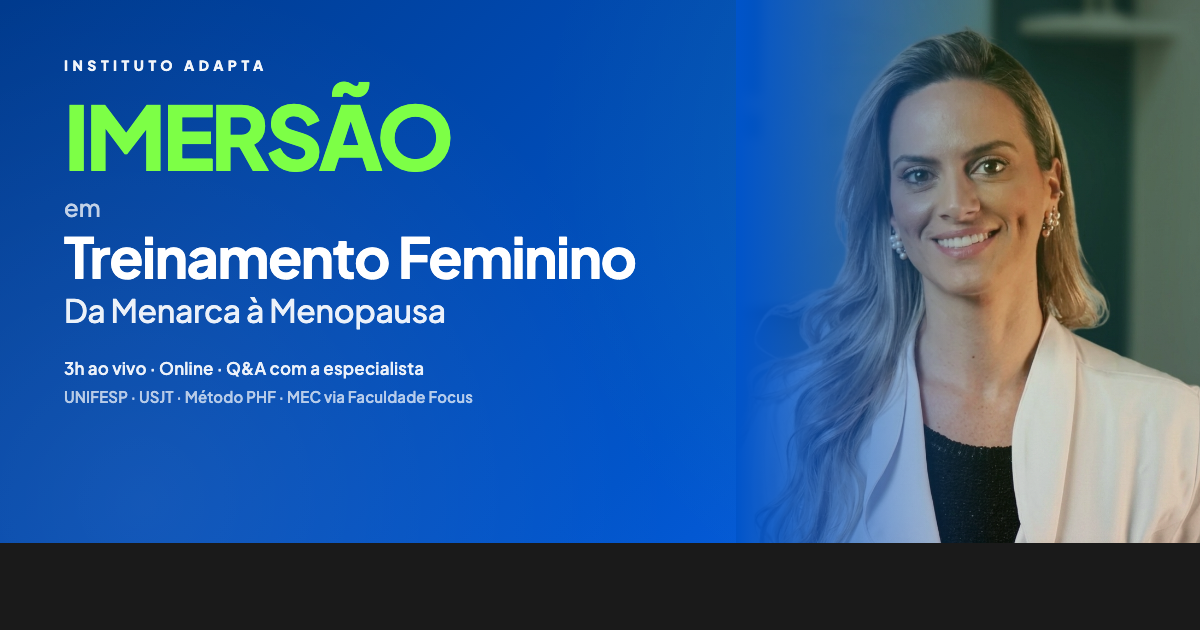
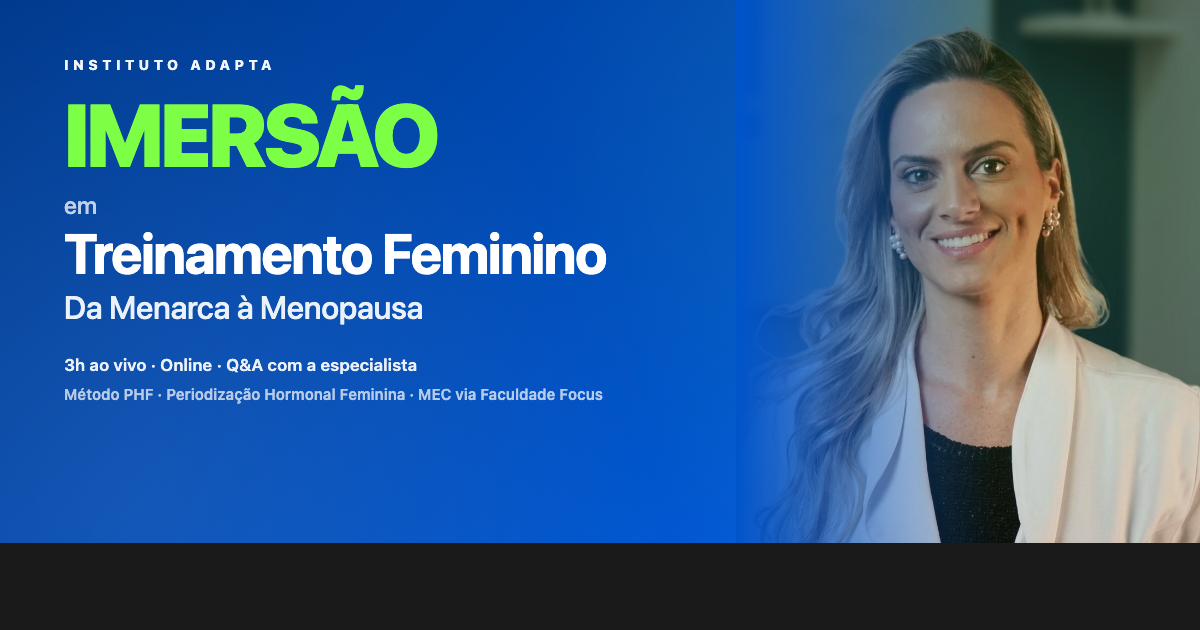
Remove menção de UNIFESP/USJT de todas as superfícies de marketing
Cliente foi enfático: nunca mencionar instituições de ensino que
não foram explicitamente direcionadas. Apenas Adapta + Faculdade
Focus (MEC) podem ser invocadas como autoridade.

Aplicado em:
- v1: og:title vira '(Especialista responde.)' no lugar de
  '(Resposta da UNIFESP.)'. Title, description, twitter:title limpos.
- v2: title, description, og:description, twitter:description, hero
  sub-headline limpos.
- posgraduacao: meta description, hero subhead, chip de coordenação,
  diferencial bullet, decorative tagline e FAQ limpos.
- og/v1, og/v2: meta-lines das capas limpas.
- PNGs das capas regenerados via Chrome headless.

Mantém UNIFESP/USJT/UMESP/UNICSUL/UNG nas listas formais de
credenciais acadêmicas (biográficas, não promocionais).

diff --git a/imersaotreinamentofeminino/posgraduacao.html b/imersaotreinamentofeminino/posgraduacao.html
@@ -4,7 +4,7 @@
 <meta charset="utf-8"/>
 <meta content="width=device-width, initial-scale=1.0" name="viewport"/>
 <title>Pós-Graduação Método PHF — 1 aluna = 4 alunas | Dra. Bianca Ramallo · Instituto Adapta</title>
-<meta name="description" content="A única pós-graduação do Brasil dedicada ao Método PHF — Periodização Hormonal Feminina criado pela Dra. Bianca Ramallo (UNIFESP). 360h, 100% online, certificação MEC via Faculdade Focus, acesso vitalício."/>
+<meta name="description" content="A única pós-graduação do Brasil dedicada ao Método PHF — Periodização Hormonal Feminina criado pela Dra. Bianca Ramallo. 360h, 100% online, certificação MEC via Faculdade Focus, acesso vitalício."/>
 
 <!-- Open Graph (WhatsApp, Facebook, LinkedIn) -->
 <meta property="og:type" content="website"/>
@@ -158,7 +158,7 @@
       </h1>
 
       <p class="text-lg md:text-xl text-muted leading-relaxed max-w-3xl mx-auto">
-        A única pós-graduação do Brasil dedicada ao <strong class="text-ink">Método PHF — Periodização Hormonal Feminina</strong>, criado e coordenado pela Dra. Bianca Ramallo (UNIFESP). Diploma MEC, 100% online, acesso vitalício.
+        A única pós-graduação do Brasil dedicada ao <strong class="text-ink">Método PHF — Periodização Hormonal Feminina</strong>, criado e coordenado pela Dra. Bianca Ramallo. Diploma MEC, 100% online, acesso vitalício.
       </p>
 
       <!-- Meta chips -->
@@ -205,7 +205,7 @@
 
       <div class="flex items-center gap-3 pt-6 flex-wrap justify-center">
         <p class="text-[10px] font-bold tracking-widest uppercase text-muted">Coordenação</p>
-        <p class="text-sm font-semibold text-muted"><span class="text-primary font-bold">Profª Dra. Bianca Ramallo</span> <span class="text-muted">• UNIFESP · Pós-Doc USJT</span></p>
+        <p class="text-sm font-semibold text-muted"><span class="text-primary font-bold">Profª Dra. Bianca Ramallo</span> <span class="text-muted">• Saúde da Mulher · Exercício Físico</span></p>
       </div>
     </div>
   </div>
@@ -353,7 +353,7 @@
         </div>
         <ul class="space-y-3 text-sm">
           <li class="flex gap-3"><span class="material-symbols-outlined text-accent text-xl shrink-0 mt-0.5" style="font-variation-settings: 'FILL' 1;">check_circle</span><span>O <strong>Método PHF (Periodização Hormonal Feminina)</strong> — criado pela Bianca, ensinado em primeira mão aqui</span></li>
-          <li class="flex gap-3"><span class="material-symbols-outlined text-accent text-xl shrink-0 mt-0.5" style="font-variation-settings: 'FILL' 1;">check_circle</span><span>Coordenação <strong>Profª Dra. Bianca Ramallo</strong> — UNIFESP, Pós-Doc USJT, três formações completas (Medicina, EF, Nutrição)</span></li>
+          <li class="flex gap-3"><span class="material-symbols-outlined text-accent text-xl shrink-0 mt-0.5" style="font-variation-settings: 'FILL' 1;">check_circle</span><span>Coordenação <strong>Profª Dra. Bianca Ramallo</strong> — Doutora, Pós-Doc, três formações completas (Medicina, EF, Nutrição)</span></li>
           <li class="flex gap-3"><span class="material-symbols-outlined text-accent text-xl shrink-0 mt-0.5" style="font-variation-settings: 'FILL' 1;">check_circle</span><span><strong>Acesso vitalício</strong> ao conteúdo, com atualizações contínuas</span></li>
           <li class="flex gap-3"><span class="material-symbols-outlined text-accent text-xl shrink-0 mt-0.5" style="font-variation-settings: 'FILL' 1;">check_circle</span><span>Reconhecimento <strong>MEC</strong> via Faculdade Focus</span></li>
         </ul>
@@ -881,7 +881,7 @@
               <img src="/imersaotreinamentofeminino/images/palestrantes/Fotobianca2.png" alt="Dra. Bianca Ramallo" class="absolute inset-0 w-full h-full object-cover" />
             </div>
           </div>
-          <p class="text-[10px] font-bold tracking-widest uppercase text-white/50">UNIFESP · USJT · UMESP · Saúde da Mulher</p>
+          <p class="text-[10px] font-bold tracking-widest uppercase text-white/50">Saúde da Mulher · Exercício Físico · Periodização Hormonal Feminina</p>
 
           <a href="https://lp.institutoadapta.com/parceiro-bianca?ref=C102456325L" data-cta="matricular" class="inline-flex items-center gap-2 self-start bg-white text-primary px-7 py-3.5 rounded-full font-extrabold text-base shadow-xl transition-all hover:scale-105 active:scale-95 mt-2">
             Quero estar nessa turma
@@ -1127,7 +1127,7 @@
           O que diferencia essa pós das outras pós em "treinamento feminino" no Brasil?
           <span class="material-symbols-outlined faq-icon text-primary transition-transform shrink-0">add</span>
         </summary>
-        <p class="mt-4 text-muted leading-relaxed">É a <strong>única pós-graduação do Brasil dedicada exclusivamente à Periodização Hormonal Feminina aplicada</strong>, sob coordenação direta da Dra. Bianca Ramallo (UNIFESP). A maior parte do mercado entrega "treino para glúteos" embalado como "treino feminino" — aqui o recorte é hormonal, clínico e científico.</p>
+        <p class="mt-4 text-muted leading-relaxed">É a <strong>única pós-graduação do Brasil dedicada exclusivamente à Periodização Hormonal Feminina aplicada</strong>, sob coordenação direta da Dra. Bianca Ramallo. A maior parte do mercado entrega "treino para glúteos" embalado como "treino feminino" — aqui o recorte é hormonal, clínico e científico.</p>
       </details>
 
       <details class="group bg-surface-container-lowest rounded-2xl p-6 shadow-sm border border-line">

diff --git a/imersaotreinamentofeminino/v2/index.html b/imersaotreinamentofeminino/v2/index.html
@@ -3,8 +3,8 @@
 <head>
 <meta charset="utf-8"/>
 <meta content="width=device-width, initial-scale=1.0" name="viewport"/>
-<title>A aluna 35+ é o público mais lucrativo do Brasil · Imersão Método PHF com Dra. Bianca Ramallo (UNIFESP) | Instituto Adapta</title>
-<meta name="description" content="A aluna 35+ é o público que mais paga, mais fideliza e mais indica em wellness no Brasil. Em 3h ao vivo, a Dra. Bianca Ramallo (UNIFESP) ensina o Método PHF e te posiciona como referência local. R$ 27."/>
+<title>A aluna 35+ é o público mais lucrativo do Brasil · Imersão Método PHF com Dra. Bianca Ramallo | Instituto Adapta</title>
+<meta name="description" content="A aluna 35+ é o público que mais paga, mais fideliza e mais indica em wellness no Brasil. Em 3h ao vivo, a Dra. Bianca Ramallo ensina o Método PHF e te posiciona como referência local. R$ 27."/>
 
 <!-- Open Graph (WhatsApp, Facebook, LinkedIn) -->
 <meta property="og:type" content="website"/>
@@ -12,7 +12,7 @@
 <meta property="og:locale" content="pt_BR"/>
 <meta property="og:url" content="https://eventos.institutoadapta.com/imersaotreinamentofeminino/v2/"/>
 <meta property="og:title" content="💎 A aluna 35+ é o público mais lucrativo do Brasil. (Você sabe atender?)"/>
-<meta property="og:description" content="Em 3h ao vivo, Dra. Bianca Ramallo (UNIFESP) ensina o Método PHF e te posiciona como referência em saúde da mulher na sua cidade. R$ 27."/>
+<meta property="og:description" content="Em 3h ao vivo, Dra. Bianca Ramallo ensina o Método PHF e te posiciona como referência em saúde da mulher na sua cidade. R$ 27."/>
 <meta property="og:image" content="https://eventos.institutoadapta.com/imersaotreinamentofeminino/images/og-cover-v2.png"/>
 <meta property="og:image:secure_url" content="https://eventos.institutoadapta.com/imersaotreinamentofeminino/images/og-cover-v2.png"/>
 <meta property="og:image:type" content="image/png"/>
@@ -23,7 +23,7 @@
 <!-- Twitter Card -->
 <meta name="twitter:card" content="summary_large_image"/>
 <meta name="twitter:title" content="💎 A aluna 35+ é o público mais lucrativo do Brasil. (Você sabe atender?)"/>
-<meta name="twitter:description" content="Em 3h · Dra. Bianca Ramallo (UNIFESP) · Método PHF. Vire a referência em saúde da mulher na sua cidade. R$ 27."/>
+<meta name="twitter:description" content="Em 3h · Dra. Bianca Ramallo · Método PHF. Vire a referência em saúde da mulher na sua cidade. R$ 27."/>
 <meta name="twitter:image" content="https://eventos.institutoadapta.com/imersaotreinamentofeminino/images/og-cover-v2.png"/>
 <meta name="twitter:image:alt" content="Imersão para profissionais que atendem a aluna 35+ · Método PHF · Dra. Bianca Ramallo"/>
 
@@ -193,7 +193,7 @@
 
       <!-- Sub-headline -->
       <p class="text-lg md:text-xl text-ink-soft leading-relaxed mb-8 max-w-2xl font-medium">
-        Em <strong class="text-ink">3 horas ao vivo</strong> com a Dra. Bianca Ramallo (UNIFESP), você domina o <strong class="text-primary">Método PHF — Periodização Hormonal Feminina</strong> — e vira essa pessoa na sua cidade.
+        Em <strong class="text-ink">3 horas ao vivo</strong> com a Dra. Bianca Ramallo, você domina o <strong class="text-primary">Método PHF — Periodização Hormonal Feminina</strong> — e vira essa pessoa na sua cidade.
       </p>
 
       <!-- Microcopy -->

diff --git a/imersaotreinamentofeminino/index.html b/imersaotreinamentofeminino/index.html
@@ -3,15 +3,15 @@
 <head>
 <meta charset="utf-8"/>
 <meta content="width=device-width, initial-scale=1.0" name="viewport"/>
-<title>Por que sua aluna some aos 35? · Imersão Método PHF com Dra. Bianca Ramallo (UNIFESP) | Instituto Adapta</title>
-<meta name="description" content="Em 3h ao vivo, a Dra. Bianca Ramallo (UNIFESP) revela o Método PHF — Periodização Hormonal Feminina — que sua faculdade não cobriu. Saia com protocolo aplicável amanhã. R$ 27."/>
+<title>Por que sua aluna some aos 35? · Imersão Método PHF com Dra. Bianca Ramallo | Instituto Adapta</title>
+<meta name="description" content="Em 3h ao vivo, a Dra. Bianca Ramallo revela o Método PHF — Periodização Hormonal Feminina — que sua faculdade não cobriu. Saia com protocolo aplicável amanhã. R$ 27."/>
 
 <!-- Open Graph (WhatsApp, Facebook, LinkedIn) -->
 <meta property="og:type" content="website"/>
 <meta property="og:site_name" content="Instituto Adapta"/>
 <meta property="og:locale" content="pt_BR"/>
 <meta property="og:url" content="https://eventos.institutoadapta.com/imersaotreinamentofeminino/"/>
-<meta property="og:title" content="🔥 Por que sua aluna some aos 35? (Resposta da UNIFESP.)"/>
+<meta property="og:title" content="🔥 Por que sua aluna some aos 35? (Especialista responde.)"/>
 <meta property="og:description" content="Em 3h ao vivo, Dra. Bianca Ramallo revela o Método PHF — Periodização Hormonal Feminina — que sua faculdade não cobriu. Protocolo aplicável amanhã. R$ 27."/>
 <meta property="og:image" content="https://eventos.institutoadapta.com/imersaotreinamentofeminino/images/og-cover-v1.png"/>
 <meta property="og:image:secure_url" content="https://eventos.institutoadapta.com/imersaotreinamentofeminino/images/og-cover-v1.png"/>
@@ -22,7 +22,7 @@
 
 <!-- Twitter Card -->
 <meta name="twitter:card" content="summary_large_image"/>
-<meta name="twitter:title" content="🔥 Por que sua aluna some aos 35? (Resposta da UNIFESP.)"/>
+<meta name="twitter:title" content="🔥 Por que sua aluna some aos 35? (Especialista responde.)"/>
 <meta name="twitter:description" content="Em 3h ao vivo, Dra. Bianca Ramallo revela o Método PHF que sua faculdade não cobriu. Protocolo aplicável amanhã. R$ 27."/>
 <meta name="twitter:image" content="https://eventos.institutoadapta.com/imersaotreinamentofeminino/images/og-cover-v1.png"/>
 <meta name="twitter:image:alt" content="Imersão em Treinamento Feminino · Método PHF · Dra. Bianca Ramallo"/>

diff --git a/imersaotreinamentofeminino/og/v1/index.html b/imersaotreinamentofeminino/og/v1/index.html
@@ -157,7 +157,7 @@
       </div>
       <div class="meta">
         <div class="meta-line">3h ao vivo · Online · Q&amp;A com a especialista</div>
-        <div class="meta-line">UNIFESP · USJT · Método PHF · MEC via Faculdade Focus</div>
+        <div class="meta-line">Método PHF · Periodização Hormonal Feminina · MEC via Faculdade Focus</div>
       </div>
     </div>
     <div class="name-tag">Com Dra. Bianca Ramallo</div>

diff --git a/imersaotreinamentofeminino/og/v2/index.html b/imersaotreinamentofeminino/og/v2/index.html
@@ -163,7 +163,7 @@
       </div>
       <div class="meta">
         <div class="meta-line">3h ao vivo · Método PHF · com Dra. Bianca Ramallo</div>
-        <div class="meta-line">Periodização Hormonal Feminina · UNIFESP · MEC</div>
+        <div class="meta-line">Periodização Hormonal Feminina · MEC via Faculdade Focus</div>
       </div>
     </div>
     <div class="name-tag">Vire a referência local · 200 vagas</div>
